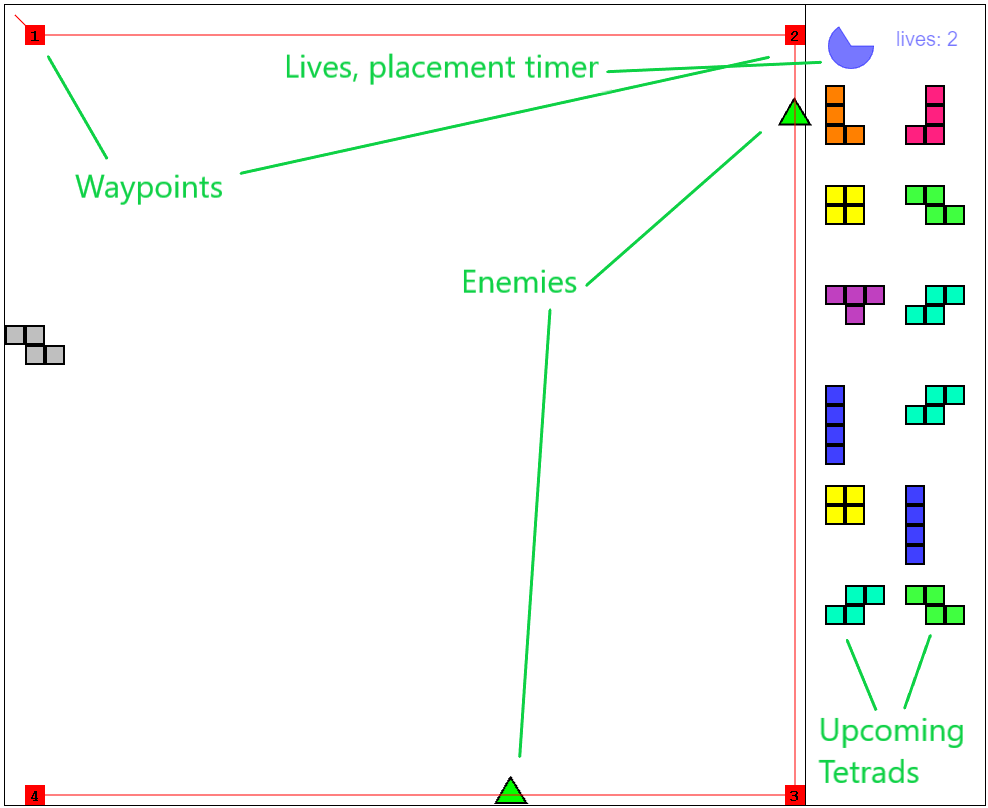
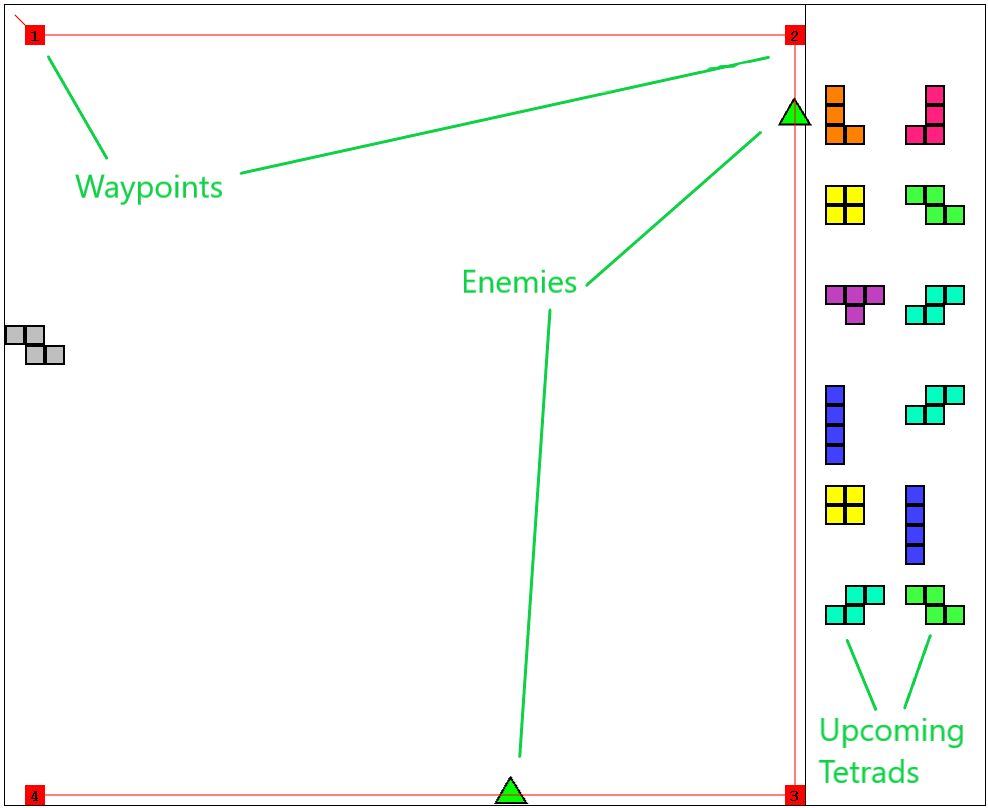
Version 1.8.0

Changed region(s): [[0.3036, 0.0619, 0.7287, 0.0928], [0.7591, 0.0309, 0.8806, 0.0928], [0.9109, 0.0309, 0.9717, 0.0619]]

diff --git a/built/src/Main.js b/built/src/Main.js
@@ -17,7 +17,6 @@ function start() {
     levelLoaders[i++] = getBasicRandomLevel;
     levelLoaders[i++] = getZLevel;
     levelLoaders[i++] = getThreebarLevel;
-    //	levelLoaders[3] = getLevelFour;
     levelLoaders[i++] = getCurlELevel;
     levelLoaders[i++] = getCupLevel;
     levelLoaders[i++] = getCircuitWithSTetrads;
@@ -109,8 +108,8 @@ function populateLevelSelector(document, levelLoaders) {
 }
 function getBasicRandomLevel() {
     var spawnTimes = [];
-    for (var i = 1; i <= 3; i++) {
-        spawnTimes.push(i * 1300);
+    for (var i = 0; i <= 3; i++) {
+        spawnTimes.push(i * 300);
     }
     var level = new LevelBuilder()
         .withLives(2)
@@ -119,7 +118,7 @@ function getBasicRandomLevel() {
         .withBoardHeight(40)
         .withWayPoints([new TilePoint(1, 1), new TilePoint(39, 1), new TilePoint(39, 39), new TilePoint(1, 39)])
         .withCanvas(canvas)
-        .withTetradFactory(getListBasedTetradTypeFactory([tetradS, tetradT, tetradJ, tetradO, tetradI, tetradZ, tetradL]))
+        .withTetradList(([tetradS, tetradT, tetradJ, tetradO, tetradI, tetradZ, tetradL, tetradS, tetradT, tetradJ, tetradO, tetradI, tetradZ, tetradL]))
         .withBlackPoints([])
         .build();
     return level;
@@ -127,20 +126,20 @@ function getBasicRandomLevel() {
 function getZLevel() {
     var level = new LevelBuilder()
         .withLives(2)
-        .withEnemySpawnTimes([[800, 1600, 2400], [3200, 3800, 4400, 5000], []])
+        .withEnemySpawnTimes([[200, 400, 600], [800, 1000], []])
         .withBoardWidth(40)
         .withBoardHeight(40)
         .withWayPoints([new TilePoint(1, 1), new TilePoint(39, 1), new TilePoint(1, 39), new TilePoint(39, 39)])
         .withCanvas(canvas)
-        .withTetradFactory(() => tetradO)
+        .withTetradList(repeatList([tetradO], 12))
         .withBlackPoints([])
         .build();
     return level;
 }
 function getCircuitWithSTetrads() {
     var spawnTimes = [];
-    for (var i = 1; i <= 28; i++) {
-        spawnTimes.push(i * (350 - 7 * i));
+    for (var i = 1; i <= 25; i++) {
+        spawnTimes.push(i * (40 - i));
     }
     var level = new LevelBuilder()
         .withLives(2)
@@ -149,30 +148,15 @@ function getCircuitWithSTetrads() {
         .withBoardHeight(40)
         .withWayPoints([new TilePoint(1, 1), new TilePoint(1, 39), new TilePoint(39, 39), new TilePoint(39, 1), new TilePoint(2, 1)])
         .withCanvas(canvas)
-        .withTetradFactory(() => tetradS)
+        .withTetradList(repeatList([tetradS], 40))
         .withBlackPoints([])
         .build();
     return level;
 }
-/*
-function getLevelFour() : Level {
-    var level : Level = new LevelBuilder()
-    .withLives(2)
-    .withEnemySpawnTimes([[500, 1000, 1500],[2000, 2500, 3000, 3500, 4000, 4500, 5000, 5500, 6000], []])
-    .withBoardWidth(40)
-    .withBoardHeight(40)
-    .withWayPoints([new TilePoint(1,1), new TilePoint(39,39), new TilePoint(1,39), new TilePoint(39,1)])
-    .withCanvas(canvas)
-    .withTetradFactory(getListBasedTetradTypeFactory([tetradL, tetradJ]))
-    .withBlackPoints([])
-    .build();
-    return level;
-}
-*/
 function getCurlELevel() {
     var bSpawnTimes = [];
-    for (var i = 1; i <= 30; i++) {
-        bSpawnTimes.push(i * 250);
+    for (var i = 1; i <= 15; i++) {
+        bSpawnTimes.push(i * 50);
     }
     var level = new LevelBuilder()
         .withLives(2)
@@ -181,7 +165,7 @@ function getCurlELevel() {
         .withBoardHeight(40)
         .withWayPoints([new TilePoint(1, 1), new TilePoint(1, 30), new TilePoint(30, 30), new TilePoint(30, 10), new TilePoint(10, 10), new TilePoint(10, 39), new TilePoint(39, 39)])
         .withCanvas(canvas)
-        .withTetradFactory(() => tetradS)
+        .withTetradList(repeatList([tetradS], 40))
         .withBlackPoints([])
         .build();
     return level;
@@ -189,7 +173,7 @@ function getCurlELevel() {
 function getCupLevel() {
     var spawnTimes = [];
     for (var i = 1; i <= 30; i++) {
-        spawnTimes.push(1000 + i * (500 - 15 * i));
+        spawnTimes.push(100 + i * (50 - i));
     }
     var blackPoints = [];
     for (var i = 0; i <= 20; i++) {
@@ -204,7 +188,7 @@ function getCupLevel() {
         .withBoardHeight(40)
         .withWayPoints([new TilePoint(1, 1), new TilePoint(39, 1)])
         .withCanvas(canvas)
-        .withTetradFactory(() => tetradI)
+        .withTetradList(repeatList([tetradI], 16))
         .withBlackPoints(blackPoints)
         .build();
     return level;
@@ -213,9 +197,9 @@ function getThreebarLevel() {
     var aSpawnTimes = [];
     var bSpawnTimes = [];
     for (var i = 1; i <= 24; i++) {
-        aSpawnTimes.push(1000 + i * (350 - 4 * i));
+        aSpawnTimes.push(100 + i * 30);
         if (i > 10) {
-            bSpawnTimes.push(1000 + i * (350 - 4 * i));
+            bSpawnTimes.push(235 + i * 30);
         }
     }
     var blackPoints = [];
@@ -231,7 +215,7 @@ function getThreebarLevel() {
         .withBoardHeight(40)
         .withWayPoints([new TilePoint(20, 1), new TilePoint(20, 39)])
         .withCanvas(canvas)
-        .withTetradFactory(() => tetradO)
+        .withTetradList(repeatList([tetradO], 32))
         .withBlackPoints(blackPoints)
         .withEnemySpawnPoint(new TilePoint(20, 0))
         .build();
@@ -240,7 +224,7 @@ function getThreebarLevel() {
 function getCenterSquareLevel() {
     var spawnTimes = [];
     for (var i = 1; i <= 40; i++) {
-        spawnTimes.push(1000 + i * (300 - 4 * i));
+        spawnTimes.push(100 + i * 30);
     }
     var blackPoints = [];
     for (var i = 0; i <= 23; i++) {
@@ -256,7 +240,7 @@ function getCenterSquareLevel() {
         .withBoardHeight(40)
         .withWayPoints([new TilePoint(1, 1), new TilePoint(1, 39), new TilePoint(39, 39), new TilePoint(39, 1), new TilePoint(2, 1)])
         .withCanvas(canvas)
-        .withTetradFactory(() => tetradS)
+        .withTetradList(repeatList([tetradS], 40))
         .withBlackPoints(blackPoints)
         .build();
     return level;
@@ -265,9 +249,9 @@ function getPepperedLevel() {
     var aSpawnTimes = [];
     var bSpawnTimes = [];
     for (var i = 1; i <= 30; i++) {
-        aSpawnTimes.push(1000 + i * 300);
+        aSpawnTimes.push(100 + i * 30);
         if (i > 10) {
-            bSpawnTimes.push(1000 + i * 350);
+            bSpawnTimes.push(100 + i * 35);
         }
     }
     var blackPoints = [];
@@ -282,7 +266,7 @@ function getPepperedLevel() {
         .withBoardHeight(40)
         .withWayPoints([new TilePoint(1, 1), new TilePoint(39, 1), new TilePoint(39, 39), new TilePoint(1, 39), new TilePoint(1, 2)])
         .withCanvas(canvas)
-        .withTetradFactory(getListBasedTetradTypeFactory([tetradL, tetradJ]))
+        .withTetradList(repeatList([tetradL, tetradJ], 40))
         .withBlackPoints(blackPoints)
         .build();
     return level;
@@ -290,7 +274,7 @@ function getPepperedLevel() {
 function getFigureEightLevel() {
     var spawnTimes = [];
     for (var i = 1; i <= 45; i++) {
-        spawnTimes.push(2000 + i * (350 - 5 * i));
+        spawnTimes.push(200 + i * 35);
     }
     var level = new LevelBuilder()
         .withLives(5)
@@ -299,15 +283,16 @@ function getFigureEightLevel() {
         .withBoardHeight(40)
         .withWayPoints([new TilePoint(19, 1), new TilePoint(11, 9), new TilePoint(29, 27), new TilePoint(20, 36), new TilePoint(11, 27), new TilePoint(29, 9), new TilePoint(21, 1)])
         .withCanvas(canvas)
-        .withTetradFactory(() => tetradT)
+        .withTetradList(repeatList([tetradT], 40))
         .withBlackPoints([])
         .withEnemySpawnPoint(new TilePoint(20, 1))
         .build();
     return level;
 }
-function getListBasedTetradTypeFactory(typeList) {
-    var i = 0;
-    return () => {
-        return typeList[i++ % typeList.length];
-    };
+function repeatList(typeList, numTetrads) {
+    var result = [];
+    for (var i = 0; i < numTetrads; i++) {
+        result.push(typeList[i % typeList.length]);
+    }
+    return result;
 }

diff --git a/built/src/Level.js b/built/src/Level.js
@@ -12,7 +12,8 @@ import { PathingObject } from "./PathingObject.js";
 import { EnemyTypes } from "./EnemyType.js";
 import { AudioService } from "./AudioService.js";
 export class Level {
-    constructor(lives, enemySpawnTimes, boardHeight, boardWidth, wayPoints, canvas, tetradFactory, blackPoints, enemySpawnPoint) {
+    constructor(lives, enemySpawnTimes, boardHeight, boardWidth, wayPoints, canvas, placeableTetradList, blackPoints, enemySpawnPoint) {
+        this.enemiesRunning = false;
         this.tetradPlacementLegal = true;
         this.isOver = false;
         this.wonGame = false;
@@ -32,9 +33,7 @@ export class Level {
         canvas.width = boardWidth * this.tileWidth + this.displayRegionWidth;
         canvas.height = boardHeight * this.tileHeight;
         this.context = Util.checkType(canvas.getContext("2d"), CanvasRenderingContext2D);
-        this.towerBuildDelay = 400;
         this.time = 0;
-        this.towerTimer = this.towerBuildDelay;
         this.remainingEnemies = 0;
         for (var i = 0; i < enemySpawnTimes.length; i++) {
             this.remainingEnemies += enemySpawnTimes[i].length;
@@ -52,48 +51,72 @@ export class Level {
         this.updatePatherMapGrid();
         this.enemySpawnPoint = enemySpawnPoint;
         this.fullPath = Pathing.fullPath(this.pathers, this.enemySpawnPoint);
-        this.tetradFactory = tetradFactory;
-        this.nextTetrad = this.getNextTetrad();
+        this.placeableTetradList = placeableTetradList;
+        var firstTetrad = this.getNextTetrad();
+        if (firstTetrad != null) {
+            this.nextTetrad = firstTetrad;
+        }
         for (var i = 0; i < 12; i++) {
-            this.comingTetrads.push(this.getNextTetrad());
+            var nextTetrad = this.getNextTetrad();
+            if (nextTetrad != null) {
+                this.comingTetrads.push(nextTetrad);
+            }
         }
     }
     advanceComingTetrads() {
         var comingTetrad = this.comingTetrads.shift();
         if (comingTetrad == null) {
-            throw "Unexpectedly null next tetrad";
+            this.nextTetrad = null;
+            return false;
         }
         this.nextTetrad = comingTetrad;
-        this.comingTetrads.push(this.getNextTetrad());
+        var nextTetrad = this.getNextTetrad();
+        if (nextTetrad != null) {
+            this.comingTetrads.push(nextTetrad);
+        }
+        return true;
     }
     getNextTetrad() {
-        return this.tetradFactory();
-    }
-    start() {
-        this.updateVar = setInterval(Level.staticUpdate(this), 10);
-    }
-    //workaround for strange behavior with setInterval where it will try to call non-static methods statically
-    static staticUpdate(level) {
-        level.update();
+        var result = this.placeableTetradList.shift();
+        if (result !== undefined) {
+            return result;
+        }
+        else {
+            return null;
+        }
     }
     updateGhostTetrad(rawMouseX, rawMouseY) {
+        if (this.nextTetrad == null) {
+            this.ghostTetrad = null;
+            return;
+        }
         var drawPos = this.getDrawPositionFromMouse(rawMouseX, rawMouseY, this.nextTetrad);
         this.clearAndDrawStatic();
         this.ghostTetrad = new Tetrad(this.nextTetrad, drawPos.x, drawPos.y);
         this.tetradPlacementLegal = this.cheapCanPlaceLegally(this.nextTetrad, drawPos.x, drawPos.y);
     }
+    startSpawningEnemies() {
+        this.enemiesRunning = true;
+    }
     tryPlaceTetrad(x, y) {
+        if (this.nextTetrad == null) {
+            return;
+        }
         var drawPos = this.getDrawPositionFromMouse(x, y, this.nextTetrad);
-        if (this.towerTimer <= 0 && this.canPlaceLegally(this.nextTetrad, drawPos.x, drawPos.y)) {
+        if (this.nextTetrad != null && this.canPlaceLegally(this.nextTetrad, drawPos.x, drawPos.y)) {
             this.pushTetrad(new Tetrad(this.nextTetrad, drawPos.x, drawPos.y));
-            this.towerTimer += this.towerBuildDelay;
-            this.advanceComingTetrads();
+            if (!this.advanceComingTetrads()) {
+                this.startSpawningEnemies();
+            }
         }
         else {
             AudioService.playErrorSound();
         }
     }
     tryRotateTetrad(rawMouseX, rawMouseY) {
+        if (this.nextTetrad == null) {
+            return;
+        }
         this.nextTetrad = TetradType.rotateTetrad(this.nextTetrad);
         this.updateGhostTetrad(rawMouseX, rawMouseY);
     }
@@ -112,10 +135,9 @@ export class Level {
         this.view.drawEnemies(this.enemyList);
         this.view.drawAttacks(this.attackList);
         if (this.ghostTetrad != null) {
-            this.view.drawTetrad(this.ghostTetrad.type, this.ghostTetrad.position.x, this.ghostTetrad.position.y, true, this.tetradPlacementLegal, this.towerTimer > 0);
+            this.view.drawTetrad(this.ghostTetrad.type, this.ghostTetrad.position.x, this.ghostTetrad.position.y, true, this.tetradPlacementLegal);
         }
         var timerXCenter = this.boardWidth * this.tileWidth + (this.displayRegionWidth / 4);
-        this.view.drawTimer(Math.max(0, this.towerTimer) / this.towerBuildDelay, timerXCenter, this.displayRegionWidth / 4, this.displayRegionWidth / 8);
         var livesXCenter = this.boardWidth * this.tileWidth + (this.displayRegionWidth / 2);
         this.view.drawLives(this.lives, 20, livesXCenter, this.displayRegionWidth / 4);
         this.view.drawUpcomingTetrads(this.comingTetrads);
@@ -188,12 +210,13 @@ export class Level {
         }
     }
     update() {
-        this.spawnEnemies();
-        this.doAttacks();
-        this.updateEnemies();
+        if (this.enemiesRunning) {
+            this.spawnEnemies();
+            this.doAttacks();
+            this.updateEnemies();
+            this.time++;
+        }
         this.clearAndDrawStatic();
-        this.time++;
-        this.towerTimer--;
     }
     updateEnemies() {
         for (var i = 0; i < this.enemyList.length; i++) {

diff --git a/howToPlay.html b/howToPlay.html
@@ -20,10 +20,10 @@
 <img src="/resources/webpageGraphics/level1_annotated.png" alt="Annotated view of game"><br>
 Controls:<br>
 -Left click to place tetrads - press spacebar to rotate the orientation of the upcoming tetrad.<br>
+-Enemies begin spawning once you have placed all of the tetrads that you have available for the level. <br>
 -The goal of the game is to prevent the enemies from getting to the last waypoint. You win the game once all enemies have spawned and disappeared off the map (either killed or reaching the last waypoint) and you still have lives remaining.<br>
 -The enemies spawn right next to the waypoint labelled "1", and move sequentially between waypoints. You can place tetrads on the map which will both lengthen the path enemies have to take between waypoints, and attack enemies. You are not allowed to place tetrads that will block the enemies path between waypoints.<br>
 -The red lines between waypoints show the path that enemies will walk along between the tetrads, in order to make it easier for you to construct your maze.<br>
--The placement timer in the top right shows how long you have to wait before you'll be able to place your next tetrad.<br> 
 
 <h2>Mega Tetrads</h2><br>
 <img src="/resources/webpageGraphics/combo_part1.png">

diff --git a/built/src/LevelBuilder.js b/built/src/LevelBuilder.js
@@ -28,8 +28,8 @@ export class LevelBuilder {
         this.canvas = canvas;
         return this;
     }
-    withTetradFactory(tetradFactory) {
-        this.tetradFactory = tetradFactory;
+    withTetradList(tetradList) {
+        this.tetradList = tetradList;
         return this;
     }
     withBlackPoints(blackPoints) {
@@ -41,6 +41,6 @@ export class LevelBuilder {
         return this;
     }
     build() {
-        return new Level(this.lives, this.enemySpawnTimes, this.boardHeight, this.boardWidth, this.wayPoints, this.canvas, this.tetradFactory, this.blackPoints, this.enemySpawnPoint);
+        return new Level(this.lives, this.enemySpawnTimes, this.boardHeight, this.boardWidth, this.wayPoints, this.canvas, this.tetradList, this.blackPoints, this.enemySpawnPoint);
     }
 }

diff --git a/built/src/EnemyType.js b/built/src/EnemyType.js
@@ -5,7 +5,7 @@ export class EnemyType {
         this.maxHealth = maxHealth;
     }
 }
-var enemy0 = new EnemyType(0, 0.75, 10000);
-var enemy1 = new EnemyType(1, 0.5, 40000);
-var enemy2 = new EnemyType(2, 1.0, 100000);
+var enemy0 = new EnemyType(0, 4, 5000);
+var enemy1 = new EnemyType(1, 2, 20000);
+var enemy2 = new EnemyType(2, 3, 50000);
 export var EnemyTypes = [enemy0, enemy1, enemy2];

diff --git a/Changelog.html b/Changelog.html
@@ -15,6 +15,8 @@
 <html lang="en">
 <body>
 <h2>Changelog</h2>
+<h3>Version 1.8.0</h3>
+There is now no timer for placing tetrads, and you have a finite number of tetrads. Enemies only begin to spawn once all of your tetrads have been placed.<br>
 <h3>Version 1.7.1</h3>
 Add feedback email address<br>
 
